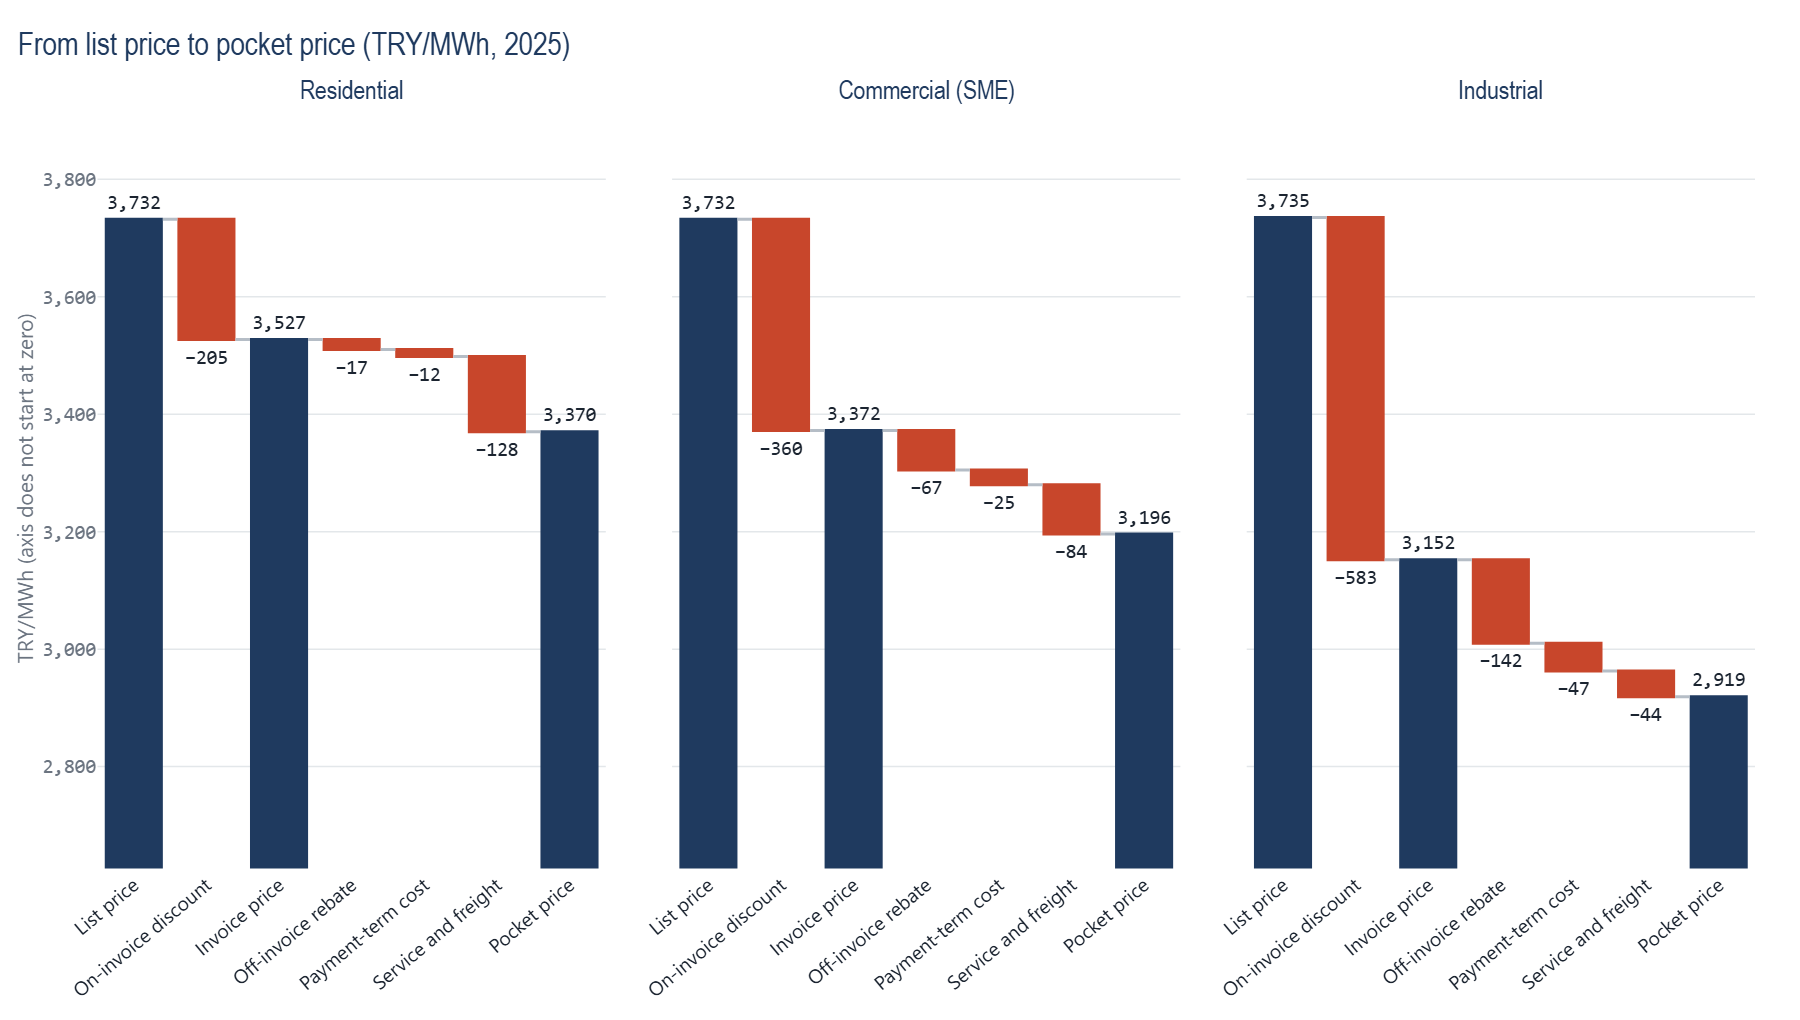
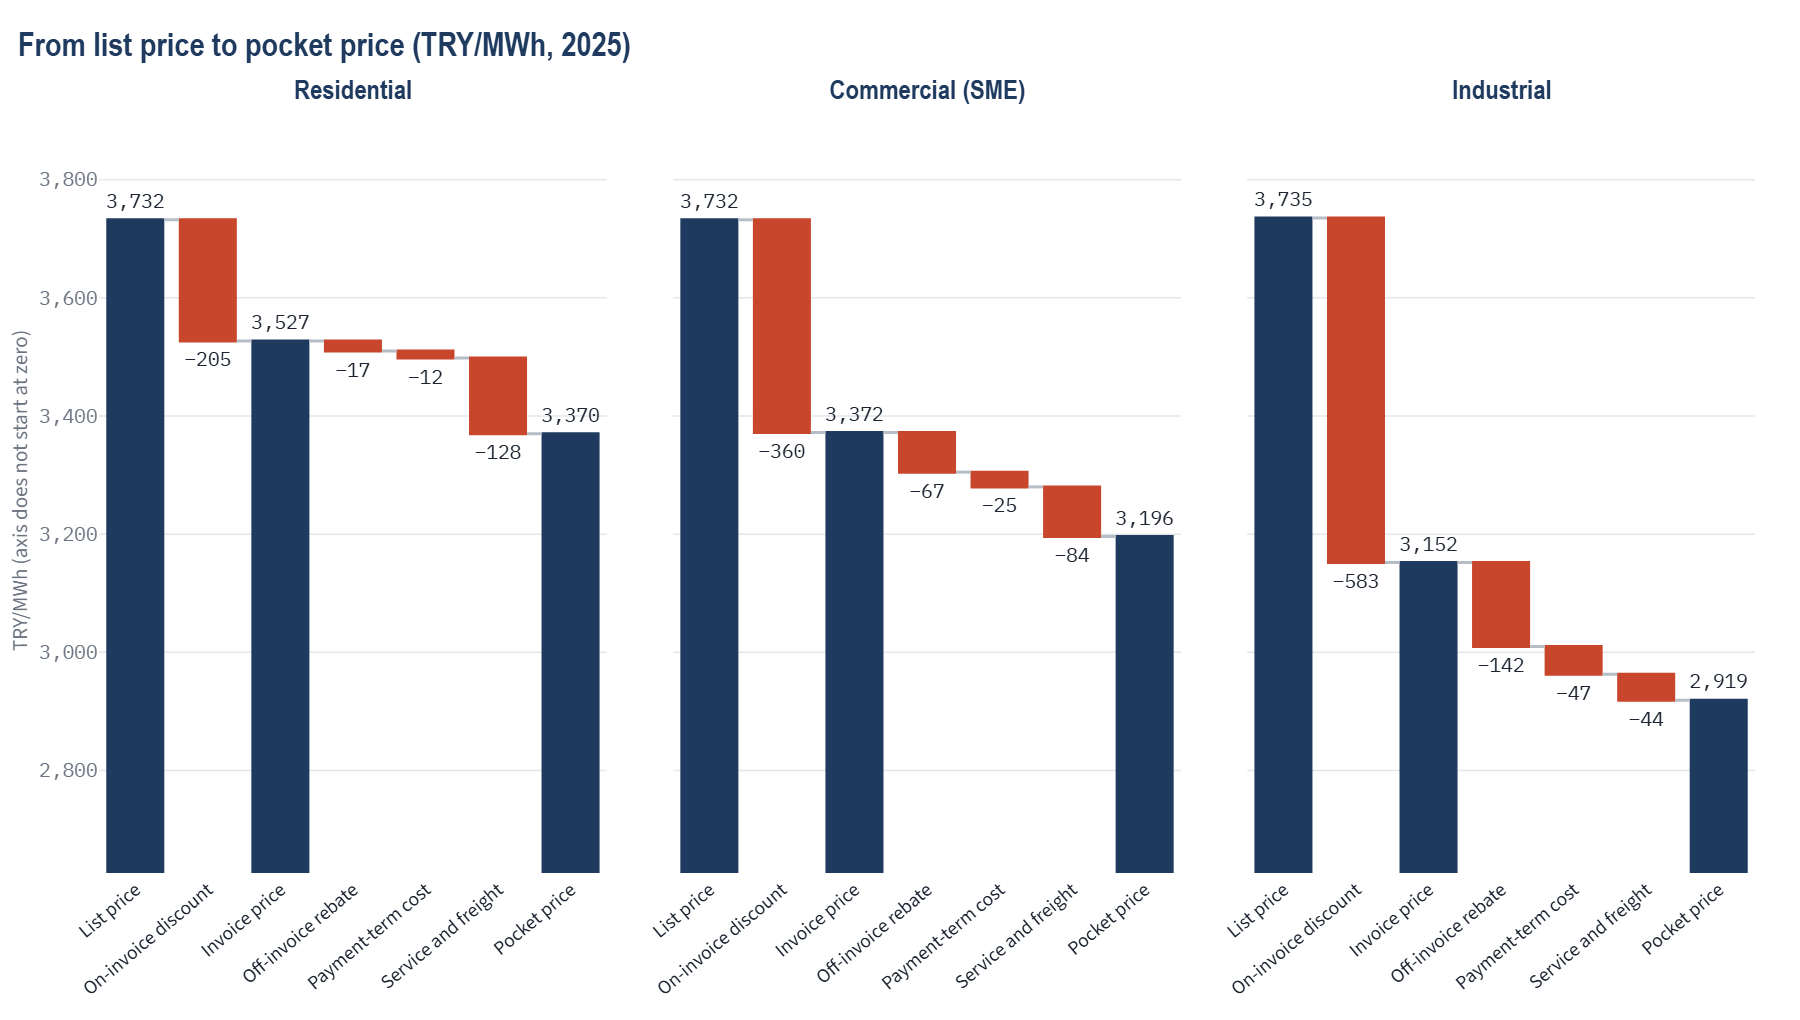
Render exported charts in the brand fonts with bold titles
Kaleido only sees installed fonts; with Barlow Semi Condensed, Source Sans 3 and IBM Plex Mono installed the PNGs now match the app. Chart titles use weight 700 and subplot titles 600, as DESIGN.md specifies. DEPLOY.md lists the fonts to install and the reboot fix for stale modules after a push.

diff --git a/src/energy_market_intelligence/pricing_visualization.py b/src/energy_market_intelligence/pricing_visualization.py
@@ -232,7 +232,9 @@ def price_waterfall_figure(waterfall: pd.DataFrame) -> go.Figure:
         )
     figure.update_layout(title="From list price to pocket price (TRY/MWh, 2025)")
     apply_business_theme(figure)
-    figure.update_annotations(font={"family": FONT_HEADING, "size": 17, "color": NAVY})
+    figure.update_annotations(
+        font={"family": FONT_HEADING, "size": 18, "weight": 600, "color": NAVY}
+    )
     figure.update_xaxes(tickangle=-40, tickfont={"family": FONT_BODY, "size": 13, "color": INK})
     figure.update_yaxes(
         range=[float(table["pocket_price"].min()) * 0.9, float(table["list_price"].max()) * 1.05],
@@ -358,7 +360,9 @@ def pvm_bridge_figure(summary: pd.DataFrame) -> go.Figure:
         figure.add_trace(_bridge_trace(effects, total), row=1, col=column)
     figure.update_layout(title=f"{FOCUS_COMPANY}: price-volume-mix bridge (2025 vs 2024)")
     apply_business_theme(figure)
-    figure.update_annotations(font={"family": FONT_HEADING, "size": 17, "color": NAVY})
+    figure.update_annotations(
+        font={"family": FONT_HEADING, "size": 18, "weight": 600, "color": NAVY}
+    )
     figure.update_xaxes(tickfont={"family": FONT_BODY, "size": 13, "color": INK})
     figure.update_yaxes(range=y_range)
     figure.update_yaxes(title=TRY_AXIS, col=1)
@@ -626,7 +630,8 @@ def promo_did_figure(
     apply_business_theme(figure)
     for title in titles:
         figure.update_annotations(
-            font={"family": FONT_HEADING, "size": 17, "color": NAVY}, selector={"text": title}
+            font={"family": FONT_HEADING, "size": 18, "weight": 600, "color": NAVY},
+            selector={"text": title},
         )
     # The subplot titles sit where the legend would go, so the legend moves under the plots.
     figure.update_layout(

diff --git a/src/energy_market_intelligence/visualization.py b/src/energy_market_intelligence/visualization.py
@@ -25,8 +25,8 @@ GRID = "#E3E7EA"  # gridlines and hairlines
 NAVY_SOFT = "#8197B4"  # lighter navy for second series and neutral increases
 SLATE_SOFT = "#B5BDC6"  # lighter slate for third series
 
-# Font stacks. The web fonts come from Google Fonts in the app; the fallbacks keep PNG exports
-# (rendered offline by Kaleido) and slow connections readable.
+# Font stacks. The web fonts come from Google Fonts in the app; PNG exports (rendered by Kaleido)
+# use them when they are installed on the machine (see DEPLOY.md), else the fallbacks.
 FONT_BODY = "'Source Sans 3', 'Segoe UI', 'Helvetica Neue', Arial, sans-serif"
 FONT_HEADING = "'Barlow Semi Condensed', 'Arial Narrow', Arial, sans-serif"
 FONT_MONO = "'IBM Plex Mono', Consolas, Menlo, monospace"
@@ -55,7 +55,7 @@ def _build_template() -> go.layout.Template:
             "y": 1,
             "yanchor": "top",
             "pad": {"t": 22},
-            "font": {"family": FONT_HEADING, "size": 21, "color": NAVY},
+            "font": {"family": FONT_HEADING, "size": 22, "weight": 700, "color": NAVY},
         },
         paper_bgcolor="rgba(0,0,0,0)",
         plot_bgcolor="rgba(0,0,0,0)",

diff --git a/DEPLOY.md b/DEPLOY.md
@@ -50,6 +50,7 @@ The look of the app (colour tokens, fonts, the bill block) is documented in [DES
 
 - Fonts load from Google Fonts in the visitor's browser through the native `font`, `headingFont` and `codeFont` options in `.streamlit/config.toml` (Streamlit 1.65 or newer, see `requirements.txt`). Nothing is bundled and no secrets are involved. If the fonts cannot load, the browser falls back to system sans-serif and monospace fonts and the layout still works.
 - The theme is light only; there is no dark-mode variant.
+- The PNG charts in `outputs/examples/` are rendered by Kaleido, which only sees fonts installed on the machine. Before regenerating them, install Barlow Semi Condensed (Regular, SemiBold, Bold), Source Sans 3 and IBM Plex Mono (Regular, Medium, SemiBold) from Google Fonts (SIL Open Font License). Without them the charts fall back to Arial Narrow, Segoe UI and Consolas and no longer match the app.
 
 ## Troubleshooting
 
@@ -59,5 +60,6 @@ The look of the app (colour tokens, fonts, the bill block) is documented in [DES
 | `Could not create the analytical database` | Neither the repository nor the temp directory is writable. Set `EMID_DATABASE_PATH` to a writable path. |
 | Old page names (`app`, `price waterfall`) in the sidebar | Browser cache of an older deployment; reload the page. Version 2.1.0 replaced the `pages/` directory with `st.navigation`. |
 | Turkish names or more than six pages after updating to 2.3.0 | The app still serves an older build. The database rebuilds itself when `DATASET_VERSION` changes; if the old pages remain, reboot the app from **Manage app**. |
+| `KeyError: 'energy_market_intelligence...'` in the logs, or new pages with old wording after a push | Streamlit reloaded the pages but kept the package modules it had already imported. Reboot the app from **Manage app**. |
 | Stale numbers after changing `config/default.yaml` | Delete `data/energy_market.duckdb` (and the temp copy) and clear the Streamlit cache. |
 | `ModuleNotFoundError: energy_market_intelligence` (or one of its modules) | `requirements.txt` was not picked up, or the package was installed non-editable before a module was added; confirm it contains `-e .`, then reboot the app from **Manage app**. |

diff --git a/CHANGELOG.md b/CHANGELOG.md
@@ -22,6 +22,7 @@ A design audit of all six pages, at laptop and phone width, and of every exporte
 - Tables show the columns that answer the page's question; standard errors, volumes and prices behind the effects are one click away.
 - The province filter is a single choice (all provinces or one) instead of 18 removable chips.
 - README: the elasticity and promotion charts are shown full width instead of side by side.
+- Exported charts use the brand fonts (Barlow Semi Condensed titles in bold, Source Sans 3, IBM Plex Mono for numbers) instead of system fallbacks; DEPLOY.md lists the fonts to install before regenerating them.
 
 ## [2.3.0] - 2026-10-11
 
